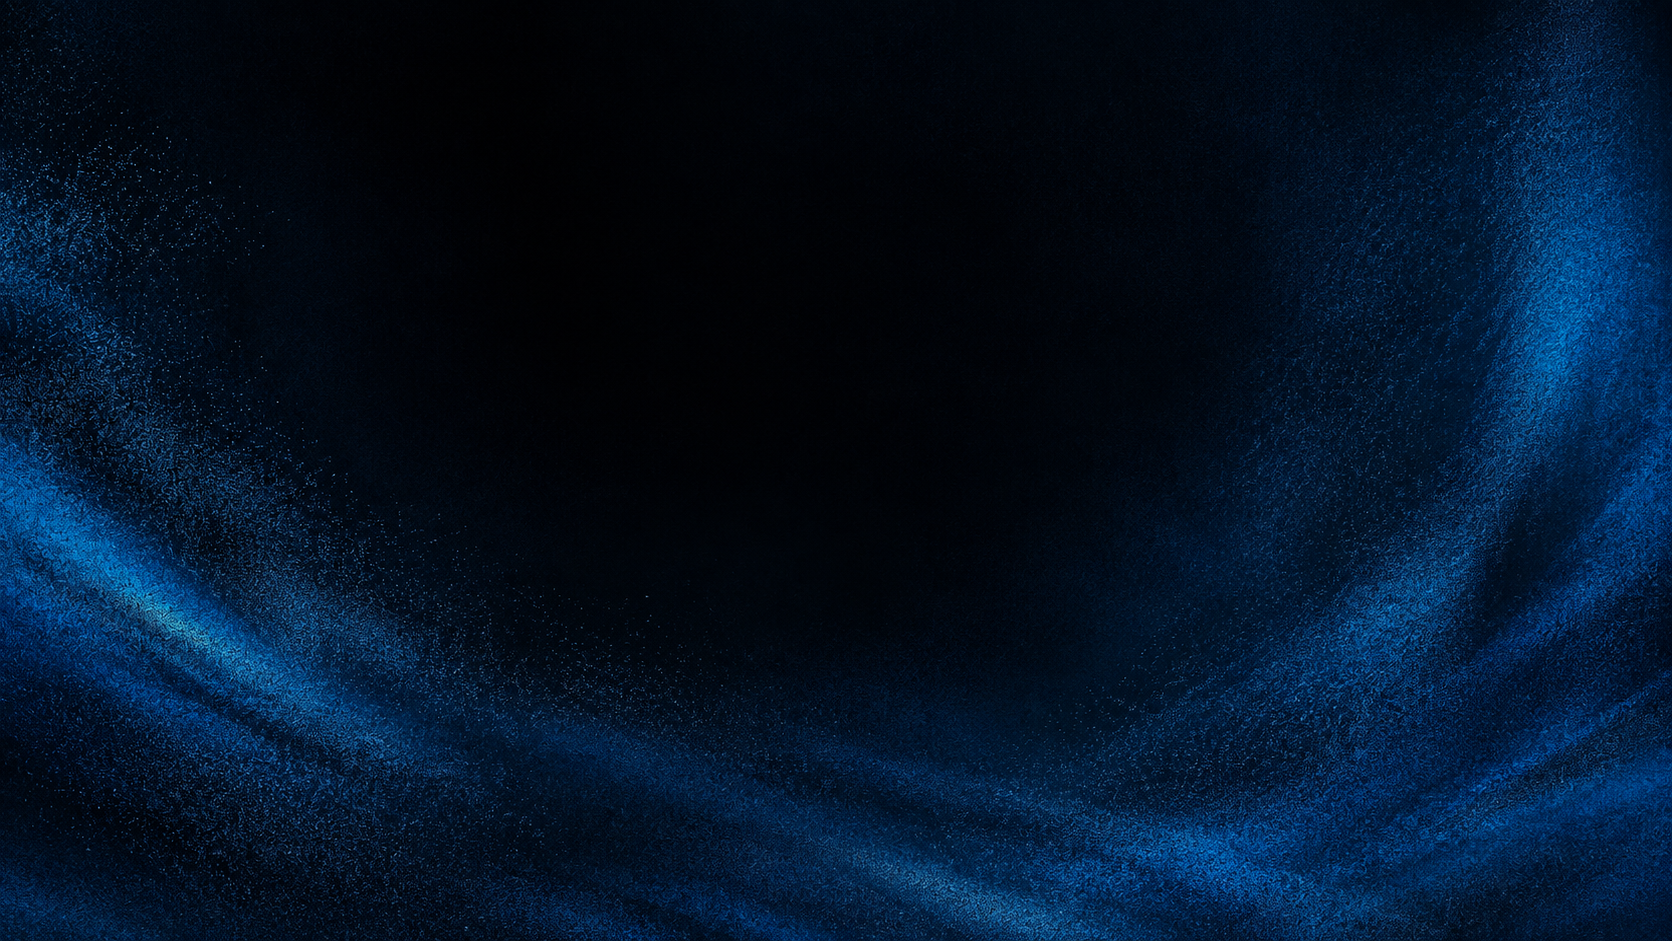
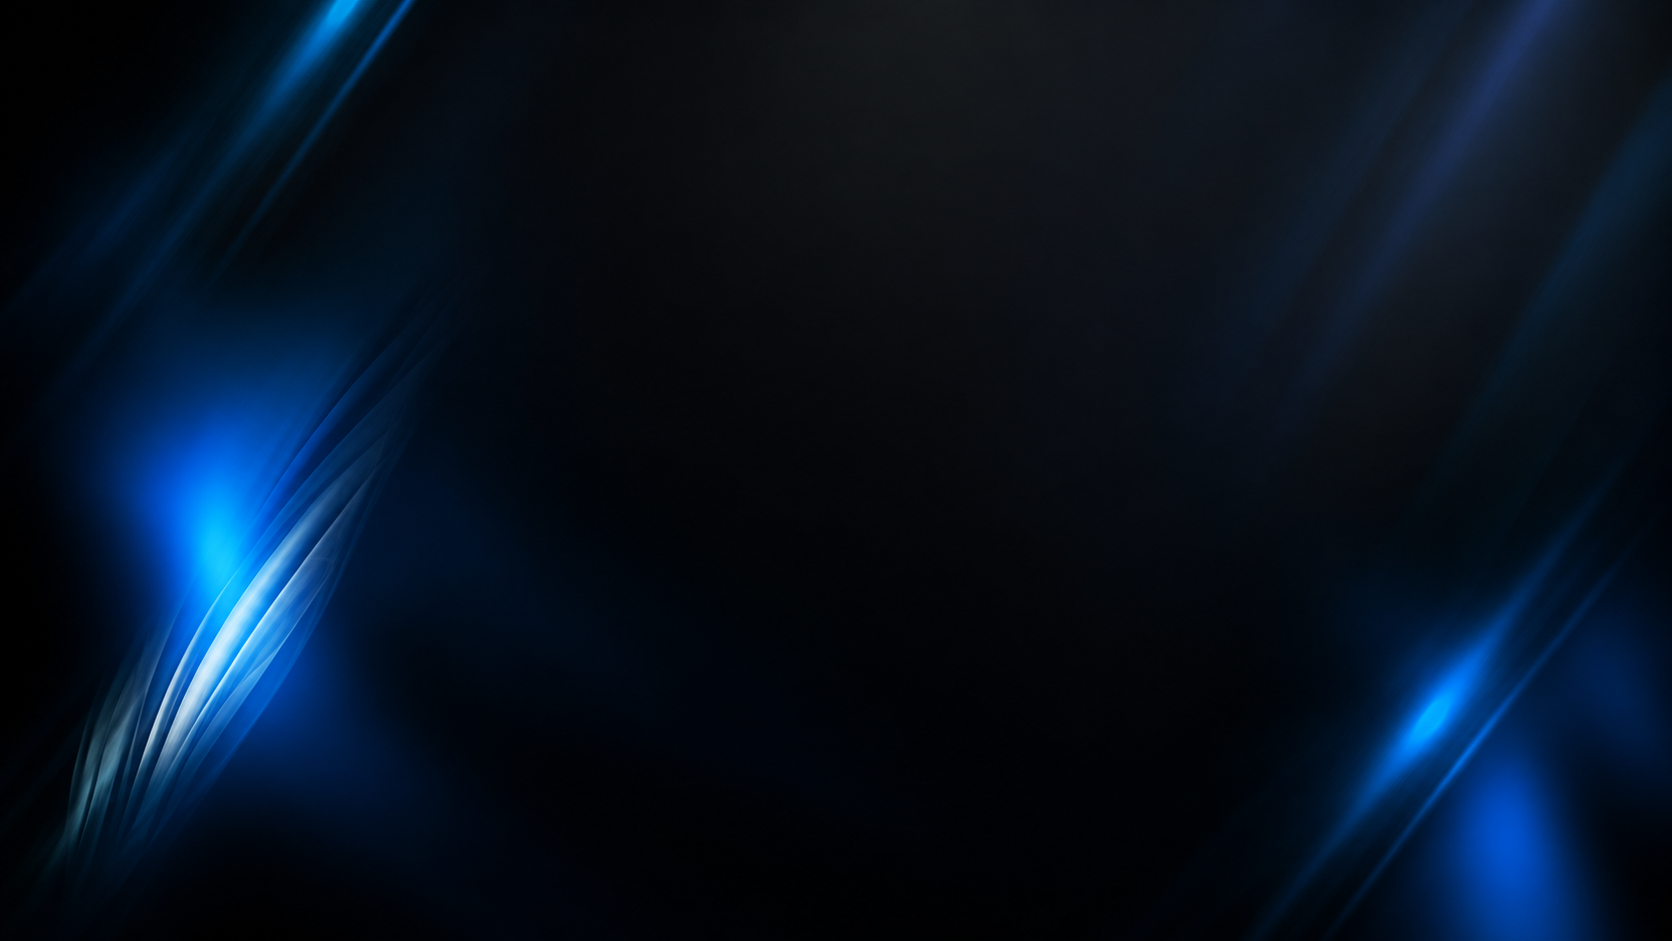
fix: ajustar area visivel da proposta

diff --git a/src/app/proposta/page.tsx b/src/app/proposta/page.tsx
@@ -81,8 +81,8 @@ export default function PropostaApresentacaoPage() {
   }
 
   if (erro && !url) return <main style={{ minHeight: '100dvh', display: 'grid', placeItems: 'center', background: '#05080f', color: '#f7f9fc', padding: 24 }}>{erro}</main>;
-  return <main style={{ minHeight: '100dvh', background: '#05080f' }}>
-    {url && <iframe src={url} title="Proposta comercial Orion" sandbox="allow-scripts allow-popups allow-popups-to-escape-sandbox" style={{ display: 'block', width: '100vw', height: '100dvh', border: 0 }} />}
+  return <main style={{ position: 'fixed', inset: 0, overflow: 'hidden', background: '#05080f' }}>
+    {url && <iframe src={url} title="Proposta comercial Orion" sandbox="allow-scripts allow-popups allow-popups-to-escape-sandbox" style={{ display: 'block', width: '100%', height: '100%', border: 0 }} />}
     {erro && <p style={{ position: 'fixed', left: 16, bottom: 16, zIndex: 10, color: '#ffd2d2' }}>{erro}</p>}
     {salvarAberto && <div onMouseDown={() => !salvando && setSalvarAberto(false)} style={{ position: 'fixed', inset: 0, zIndex: 20, display: 'grid', placeItems: 'center', background: 'rgba(0,0,0,.68)', padding: 20 }}>
       <section onMouseDown={(event) => event.stopPropagation()} style={{ width: 'min(460px,100%)', borderRadius: 14, padding: 24, background: '#0b1422', color: '#f7f9fc', boxShadow: '0 20px 80px rgba(0,0,0,.5)' }}>

diff --git a/conteudo/proposta-kripto.html b/conteudo/proposta-kripto.html
@@ -1055,14 +1055,12 @@ body.editing [data-e]:hover{outline-color:rgba(61,130,255,.75);background:rgba(1
   /* ---------- fit stage to viewport ---------- */
   function fit(){
     var pad = 0;
-    var visual = window.visualViewport;
-    var w = (visual ? visual.width : window.innerWidth) - pad;
-    var h = (visual ? visual.height : window.innerHeight) - pad;
+    var w = document.documentElement.clientWidth - pad;
+    var h = document.documentElement.clientHeight - pad;
     var s = Math.min(w / 1600, h / 900);
     stage.style.transform = "scale(" + s + ")";
   }
   window.addEventListener("resize", fit);
-  if (window.visualViewport) window.visualViewport.addEventListener("resize", fit);
   fit();
 
   /* ---------- navigation ---------- */
